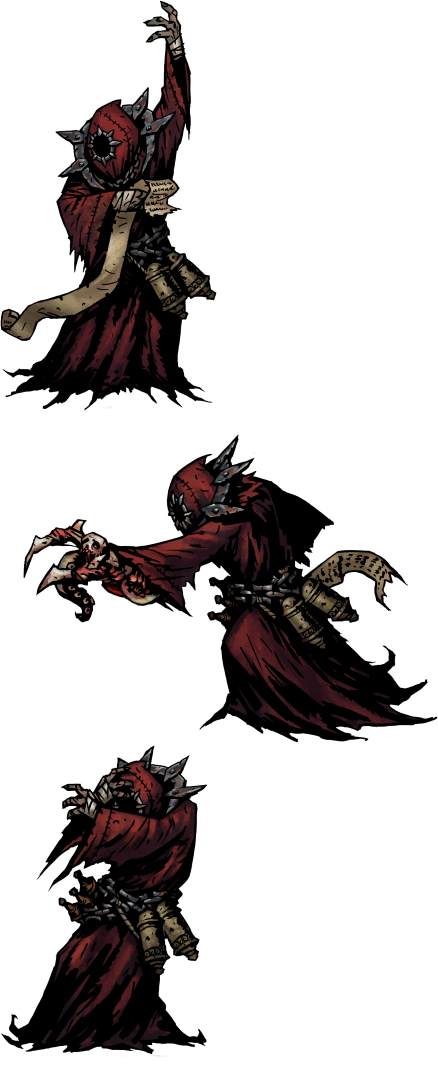
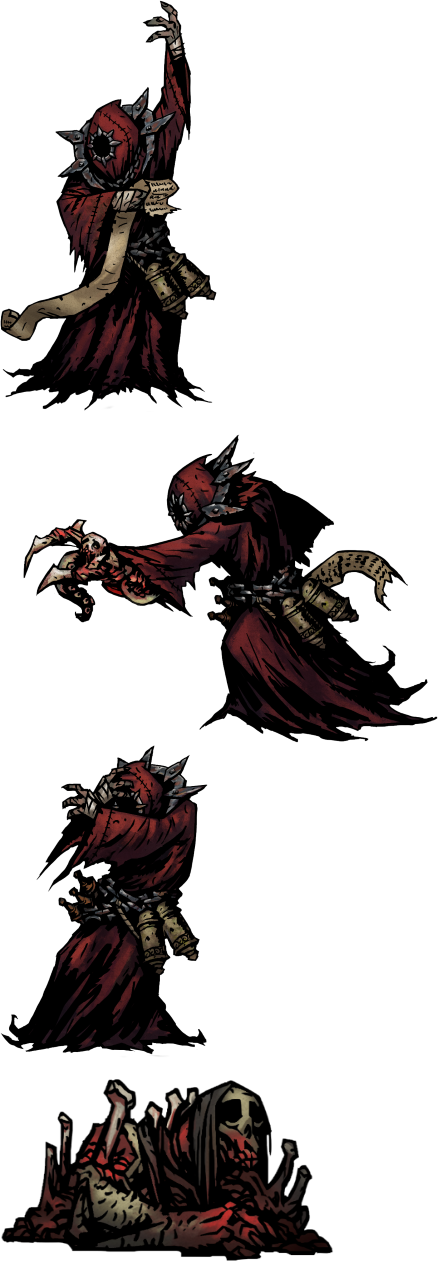
Добавлен лагерь

diff --git a/A-dark-castle/heroes.h b/A-dark-castle/heroes.h
@@ -94,9 +94,14 @@ struct AttacksCruasder
 		if (victim.hp > 15) victim.hp -= 15;
 		else victim.hp = 0;
 	}
-	void Attack2(Structheroes& cruasder)
+	void Attack2(Structheroes& cruasder, StructEnemy victim[3])
 	{
-		cruasder.stats.def = cruasder.stats.def + 0.5;
+		cruasder.stats.def = cruasder.stats.def + 0.25;
+		for (int i = 0; i < 3; i++)
+		{
+			if (victim[i].hp > 3) victim[i].hp -= 3;
+			else victim[i].hp = 0;
+		}
 	}
 	void Attack3(Structheroes& cruasder)
 	{
@@ -189,16 +194,22 @@ struct AttacksMage
 {
 	void Attack1(StructAllHeroes& all_heroes)
 	{
+		if (all_heroes.mage.stats.hp <= (all_heroes.mage.stats.max_hp) - 2) all_heroes.mage.stats.hp += 2;
+		else all_heroes.mage.stats.hp = all_heroes.mage.stats.max_hp;
 		if (all_heroes.cruasder.stats.hp <= (all_heroes.cruasder.stats.max_hp) - 6) all_heroes.cruasder.stats.hp += 6;
 		else all_heroes.cruasder.stats.hp = all_heroes.cruasder.stats.max_hp;
 	}
 	void Attack2(StructAllHeroes& all_heroes)
 	{
+		if (all_heroes.mage.stats.hp <= (all_heroes.mage.stats.max_hp) - 2) all_heroes.mage.stats.hp += 2;
+		else all_heroes.mage.stats.hp = all_heroes.mage.stats.max_hp;
 		if (all_heroes.rogue.stats.hp <= (all_heroes.rogue.stats.max_hp) - 6) all_heroes.rogue.stats.hp += 6;
 		else all_heroes.rogue.stats.hp = all_heroes.rogue.stats.max_hp;
 	}
 	void Attack3(StructAllHeroes& all_heroes)
 	{
+		if (all_heroes.mage.stats.hp <= (all_heroes.mage.stats.max_hp) - 2) all_heroes.mage.stats.hp += 2;
+		else all_heroes.mage.stats.hp = all_heroes.mage.stats.max_hp;
 		if (all_heroes.wizard.stats.hp <= (all_heroes.wizard.stats.max_hp) - 6) all_heroes.wizard.stats.hp += 6;
 		else all_heroes.wizard.stats.hp = all_heroes.wizard.stats.max_hp;
 	}

diff --git a/A-dark-castle/const.h b/A-dark-castle/const.h
@@ -1,4 +1,21 @@
 #pragma once
+#include <SFML\Graphics.hpp>
+#include <iostream>
+#include <string>
+#include <sstream>
+#include <cstdlib>
+#include <ctime>
+
+#include "menu.h"
+#include "view.h"
+
+#include "heroes.h"
+#include "battle.h"
+#include "event.h"
+#include "map.h"
+#include "inventory.h"
+#include "Sound.h"
+#include "campfire.h"
 
 using namespace sf;
 const Vector2i SIZE_WINDOW = { 1400, 800 };
@@ -7,8 +24,35 @@ struct StructTime
 	Clock clock;
 	float time;
 };
-
+struct StructEndGame
+{
+	struct StructBad
+	{
+	Image image;
+	Texture texture;
+	Sprite sprite;
+	}bad;
+	struct StructGood
+	{
+		Image image;
+		Texture texture;
+		Sprite sprite;
+	}good;
+};
 struct StructGame
 {
-
+	StructCampfire campfire;
+	StructEndGame end_game;
+	StructView view;
+	StructMenu menu;
+	StructMap map;
+	StructEvent key_event;
+	StructAllEnemy all_enemy;
+	StructLocalEnemy local_enemy[ENEMY_COUNT];
+	StructAllHeroes all_heroes;
+	StructBattleParam battle_param;
+	StructTime time_animation;
+	StructInventory inventory;
+	StructMusic sound;
 };
+

diff --git a/A-dark-castle/event.cpp b/A-dark-castle/event.cpp
@@ -9,6 +9,9 @@ void CheckEvent(RenderWindow& window, StructEvent& key_event, int stage_game)
 	while (window.pollEvent(event))
 	{
 		if (event.type == Event::KeyPressed)
+			if (event.key.code == Keyboard::Tab)
+				key_event.key_tab = 1;
+		if (event.type == Event::KeyPressed)
 			if (event.key.code == Keyboard::Up)
 				key_event.key_up = 1;
 		if (event.type == Event::KeyPressed)

diff --git a/A-dark-castle/map.cpp b/A-dark-castle/map.cpp
@@ -237,4 +237,6 @@ void ExplorationMod(StructMap& map, StructEvent key_event, StructInventory& inve
 		inventory.food.quantity -= 2;
 		map.tile_map[map.hero_pos.x][map.hero_pos.y] = 0;
 	}
+	if (key_event.key_tab)
+		stage_game = 4;
 }

diff --git a/A-dark-castle/event.h b/A-dark-castle/event.h
@@ -10,6 +10,7 @@ struct StructEvent
 	int key_left;
 	int key_right;
 	int key_escape;
+	int key_tab;
 };
 
 void CheckEvent(RenderWindow& window, StructEvent& key_event, int stage_game);
